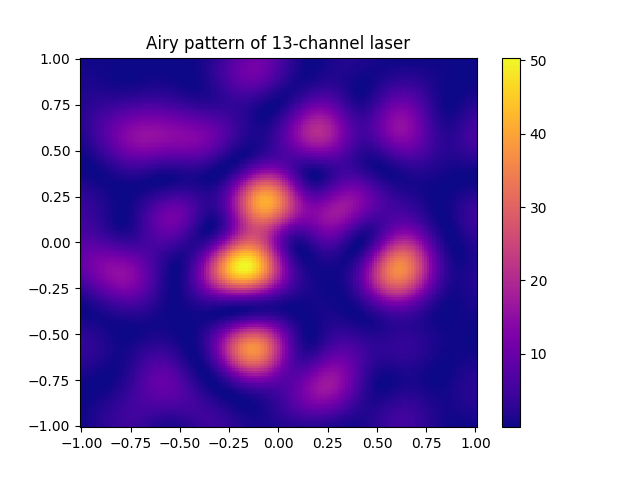
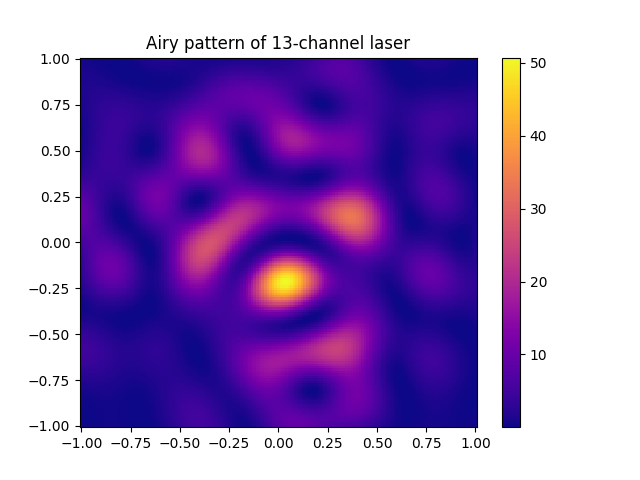
1

diff --git a/main.py b/main.py
@@ -7,7 +7,7 @@ from math import *
 
 
 '''Постоянные в СИ'''
-R = 1e-3
+R = 2e-3
 a = 5e-4
 lmbd = 720e-9
 k = 2 * cm.pi / lmbd
@@ -17,7 +17,7 @@ N = 151
 focus_size = 2
 
 
-teta_max = 2*a
+teta_max = a
 tetas = np.linspace(-teta_max, teta_max, N, endpoint=True)
 
 
@@ -45,7 +45,7 @@ coords_13 = [(0, 0),
 
 
 
-selectedcoords = coords_4
+selectedcoords = coords_13
 
 
 
@@ -84,10 +84,10 @@ def show_graf_n(tetas, coords, fi_arr, title=''):
     cmap = cmap.with_extremes(bad=cmap(0))
     ax.set_title(title)
     cf = ax.pcolormesh(tetas / teta_max, tetas / teta_max, i_2d_arr, cmap=cmap)
-    for i in range(len(fi_arr)):
-        plt.arrow(0, 0, cos(fi_arr[i]) / 2, sin(fi_arr[i]) / 2, width=0.002, color="white")
+    # for i in range(len(fi_arr)):
+    #     plt.arrow(0, 0, cos(fi_arr[i]) / 2, sin(fi_arr[i]) / 2, width=0.002, color="white")
     fig.colorbar(cf, ax=ax)
-    plt.savefig('imagvec' + title[16:])
+    plt.savefig('imag' + title[16:])
 
 
 def find_better_phase_n(coords, real_phase_arr, plus_arr, tetas, size_of_point=focus_size, steps=100):
@@ -120,10 +120,10 @@ def do_and_print_one_correction(coords, fi_0, tetas):
 
     plus_arr += find_better_phase_n(coords, fi_0, plus_arr, tetas)
     print(fi_0 + plus_arr, plus_arr, sep='\n')
-    show_graf_n(tetas, coords, fi_0 + plus_arr, f'Airy pattern of {len(coords)}-channels laser corrected x1')
+    show_graf_n(tetas, coords, fi_0 + plus_arr, f'Airy pattern of {len(coords)}-channel laser corrected x1')
 
     plus_arr += find_better_phase_n(coords, fi_0, plus_arr, tetas)
     print(fi_0 + plus_arr, plus_arr, sep='\n')
-    show_graf_n(tetas, coords, fi_0 + plus_arr, f'Airy pattern of {len(coords)}-channels laser corrected x2')
+    show_graf_n(tetas, coords, fi_0 + plus_arr, f'Airy pattern of {len(coords)}-channel laser corrected x2')
 
 do_and_print_one_correction(selectedcoords, fi_0, tetas)
